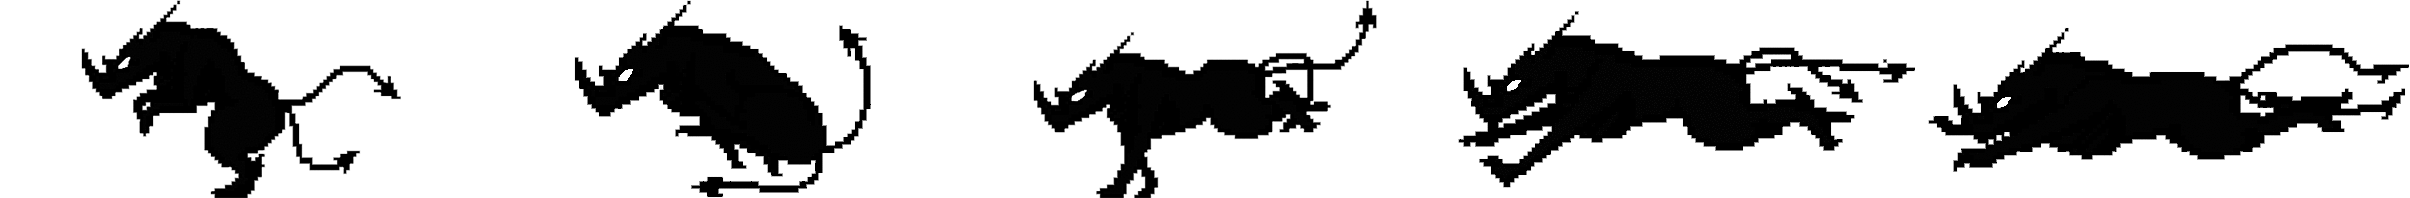
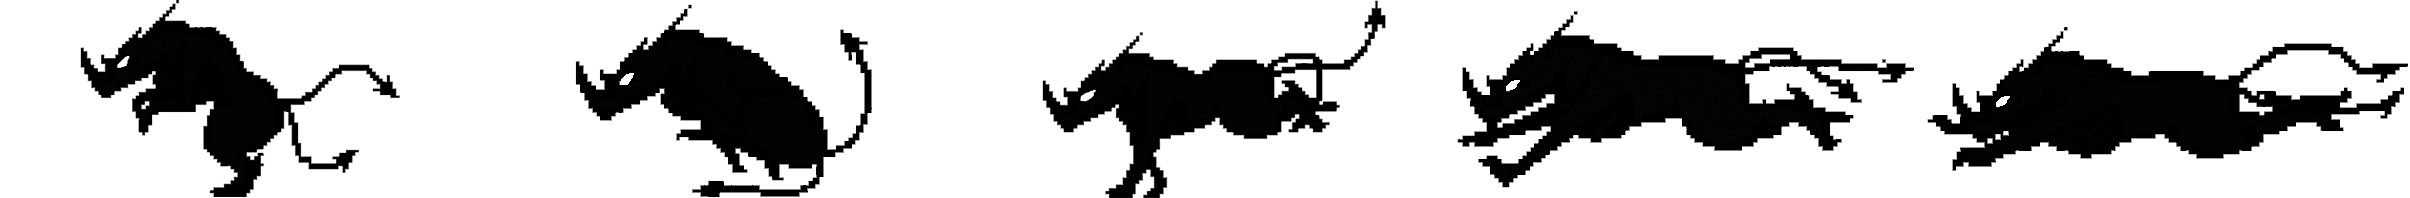
Final_Project

diff --git a/3- Final Project/main.py b/3- Final Project/main.py
@@ -44,7 +44,7 @@ def game(vidas,vidasInimigo,movimento,movimentoInimigo,velProjetil,velProjetilIn
     
     plataforma = GameImage("Plataforma.jpg")
     
-    # Instancio os personagens
+    # Instancio a Emih
     player_Esq_Run = Sprite("Emih_invertido.png", 8)
     player_Esq_Run.x = 0
     player_Esq_Run.y = janela.height-player_Esq_Run.height
@@ -65,10 +65,91 @@ def game(vidas,vidasInimigo,movimento,movimentoInimigo,velProjetil,velProjetilIn
     
     player = player_Dir
     
-    goblin = Sprite("Goblin.png", 1)
-    cultista = Sprite("Cultista.png", 1)
-    guardas = Sprite("Guardas.png", 1)
-    caebralum = Sprite("Caebralum.png", 1)
+    # Instancio o Caebralum
+    caebralum_Esq_Run = Sprite("CaebralumEsq.png", 8)
+    caebralum_Esq_Run.x = 0
+    caebralum_Esq_Run.y = janela.height-caebralum_Esq_Run.height
+    caebralum_Esq_Run.set_total_duration(1000)
+    
+    caebralum_Dir_Run = Sprite("CaebralumDir.png", 8)
+    caebralum_Dir_Run.x = 0
+    caebralum_Dir_Run.y = janela.height-caebralum_Dir_Run.height
+    caebralum_Dir_Run.set_total_duration(1000)
+    
+    caebralum_Esq = Sprite("Caebralum_Idle_Esq.png", 1)
+    caebralum_Esq.x = 0
+    caebralum_Esq.y = janela.height-caebralum_Esq.height
+    
+    caebralum_Dir = Sprite("Caebralum_Idle_Dir.png", 1)
+    caebralum_Dir.x = 0
+    caebralum_Dir.y = janela.height-caebralum_Dir.height
+    
+    caebralum = caebralum_Esq
+    
+    # Instancio o minotauro
+    minotauro_Esq_Run = Sprite("CaebralumEsq.png", 5)
+    minotauro_Esq_Run.x = 0
+    minotauro_Esq_Run.y = janela.height-minotauro_Esq_Run.height
+    minotauro_Esq_Run.set_total_duration(1000)
+    
+    minotauro_Dir_Run = Sprite("CaebralumDir.png", 5)
+    minotauro_Dir_Run.x = 0
+    minotauro_Dir_Run.y = janela.height-minotauro_Dir_Run.height
+    minotauro_Dir_Run.set_total_duration(1000)
+    
+    minotauro_Esq = Sprite("Caebralum_Idle_Esq.png", 1)
+    minotauro_Esq.x = 0
+    minotauro_Esq.y = janela.height-minotauro_Esq.height
+    
+    minotauro_Dir = Sprite("Caebralum_Idle_Dir.png", 1)
+    minotauro_Dir.x = 0
+    minotauro_Dir.y = janela.height-minotauro_Dir.height
+    
+    minotauro = minotauro_Dir
+    
+    # Instancio o cultista
+    cultista_Esq_Run = Sprite("CultistaEsq.png", 10)
+    cultista_Esq_Run.x = 0
+    cultista_Esq_Run.y = janela.height-cultista_Esq_Run.height
+    cultista_Esq_Run.set_total_duration(1000)
+    
+    cultista_Dir_Run = Sprite("CultistaDir.png", 10)
+    cultista_Dir_Run.x = 0
+    cultista_Dir_Run.y = janela.height-cultista_Dir_Run.height
+    cultista_Dir_Run.set_total_duration(1000)
+    
+    cultista_Esq = Sprite("Cultista_Idle_Esq.png", 10)
+    cultista_Esq.x = 0
+    cultista_Esq.y = janela.height-cultista_Esq.height
+    cultista_Dir_Run.set_total_duration(1000)
+
+    cultista_Dir = Sprite("Cultista_Idle_Dir.png", 10)
+    cultista_Dir.x = 0
+    cultista_Dir.y = janela.height-cultista_Dir.height
+    cultista_Dir_Run.set_total_duration(1000)
+
+    cultista = cultista_Esq
+    
+    # Instancio o guardas
+    guardas_Esq_Run = Sprite("GuardasEsq.png", 6)
+    guardas_Esq_Run.x = 0
+    guardas_Esq_Run.y = janela.height-guardas_Esq_Run.height
+    guardas_Esq_Run.set_total_duration(1000)
+    
+    guardas_Dir_Run = Sprite("GuardasDir.png", 6)
+    guardas_Dir_Run.x = 0
+    guardas_Dir_Run.y = janela.height-guardas_Dir_Run.height
+    guardas_Dir_Run.set_total_duration(1000)
+    
+    guardas_Esq = Sprite("Guardas_Idle_Esq.png", 6)
+    guardas_Esq.x = 0
+    guardas_Esq.y = janela.height-guardas_Esq.height
+    
+    guardas_Dir = Sprite("Guardas_Idle_Dir.png", 6)
+    guardas_Dir.x = 0
+    guardas_Dir.y = janela.height-guardas_Dir.height
+    
+    guardas = cultista_Esq
     
     # Crio o vetor de projeteis aliados e sua direçao
     listaProjeteisE = []
@@ -147,7 +228,7 @@ def game(vidas,vidasInimigo,movimento,movimentoInimigo,velProjetil,velProjetilIn
         # Desenho o personagem principal
         player.draw()
         
-        # Desenho o fps
+        # Desenho as instruçoes
         if player.collided(placa):
             janela.draw_text(("DERROTE TODOS OS INIMIGOS PARA PROSSEGUIR!"), (janela.width/2)-325, 20, size=28, font_name="Arial", bold=True,color=[255, 255, 0])
         
